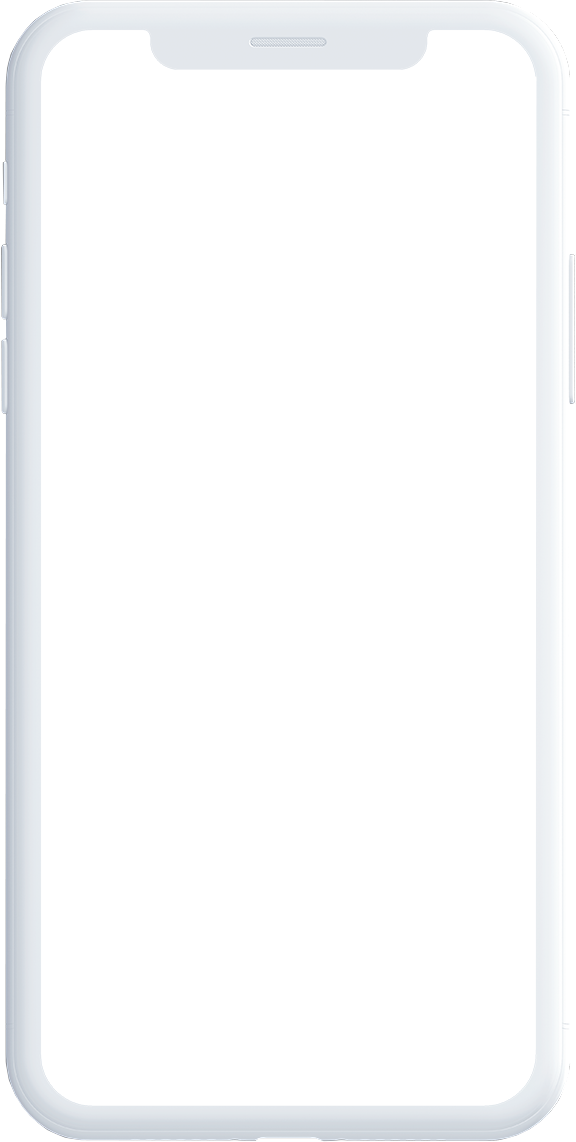
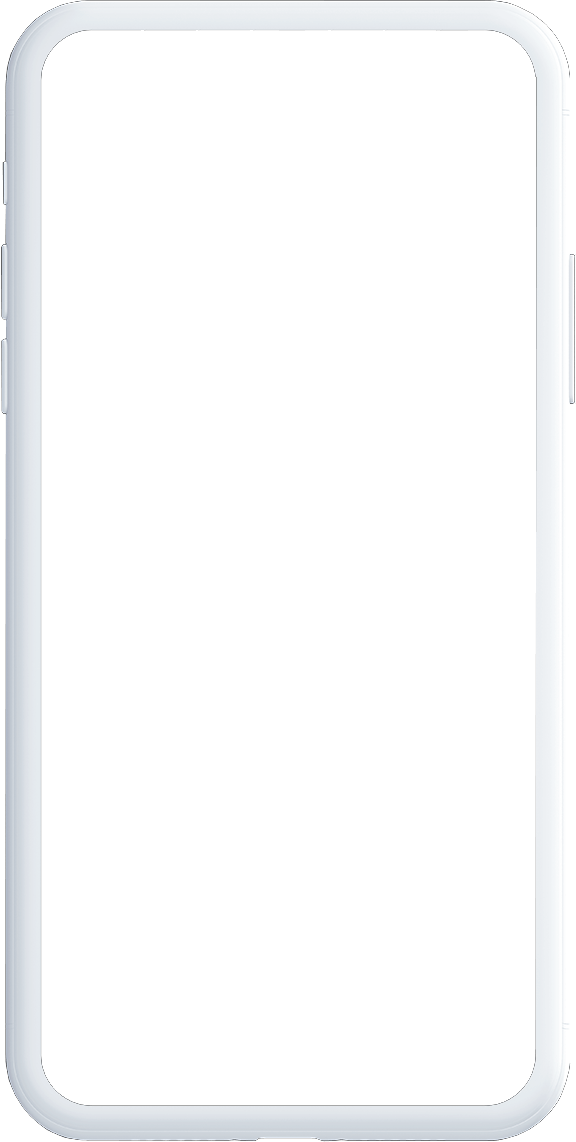
fix farme

Changed region(s): [[0.25, 0.0, 0.75, 0.0613]]

diff --git a/components/Mobile.vue b/components/Mobile.vue
@@ -1,17 +1,33 @@
 <template>
-  <div class="mobile" :style="style">
-    <img src="@/assets/images/mobile.png" alt />
+  <div class="mobile">
+    <div class="mobile-container">
+      <img :src="this.background" class="mobile-image" alt="" />
+    </div>
+    <img src="@/assets/images/mobile.png" class="frame" alt="" />
   </div>
 </template>
 
 <style lang="scss" scoped>
+.frame {
+  position: absolute;
+  top: 0;
+  bottom: 0;
+  z-index: 10;
+  margin: auto;
+  height: 100%;
+  width: 100%;
+  // box-shadow: -52px 47px 80px 0px rgba(0, 0, 0, 0.15);
+}
+.mobile-container {
+  width: 95%;
+  margin: 10px auto 0;
+  overflow: hidden;
+  background-color: transparent;
+  border-radius: 30px;
+}
 .mobile {
-  box-shadow: -52px 47px 80px 0px rgba(0, 0, 0, 0.15);
-  border-radius: 60px;
-  background-size: auto 95%;
-  background-repeat: no-repeat;
-  background-position: center center;
-  img {
+  position: relative;
+  .mobile-image {
     position: relative;
     z-index: 10;
     display: block;
@@ -34,13 +50,13 @@
 
 <script>
 export default {
-  name: 'Tablet',
+  name: 'Mobile',
   props: {
     background: { type: String, default: '' }
   },
   computed: {
     style() {
-      return `background-image: url(${this.background})`
+      return `background-image: url(${''})`
     }
   }
 }

diff --git a/assets/scss/_button.scss b/assets/scss/_button.scss
@@ -6,6 +6,7 @@
   cursor: pointer;
   border: 0px;
   width: auto;
+  white-space: nowrap;
 
   color: #2e312f;
   font-size: 14px;
